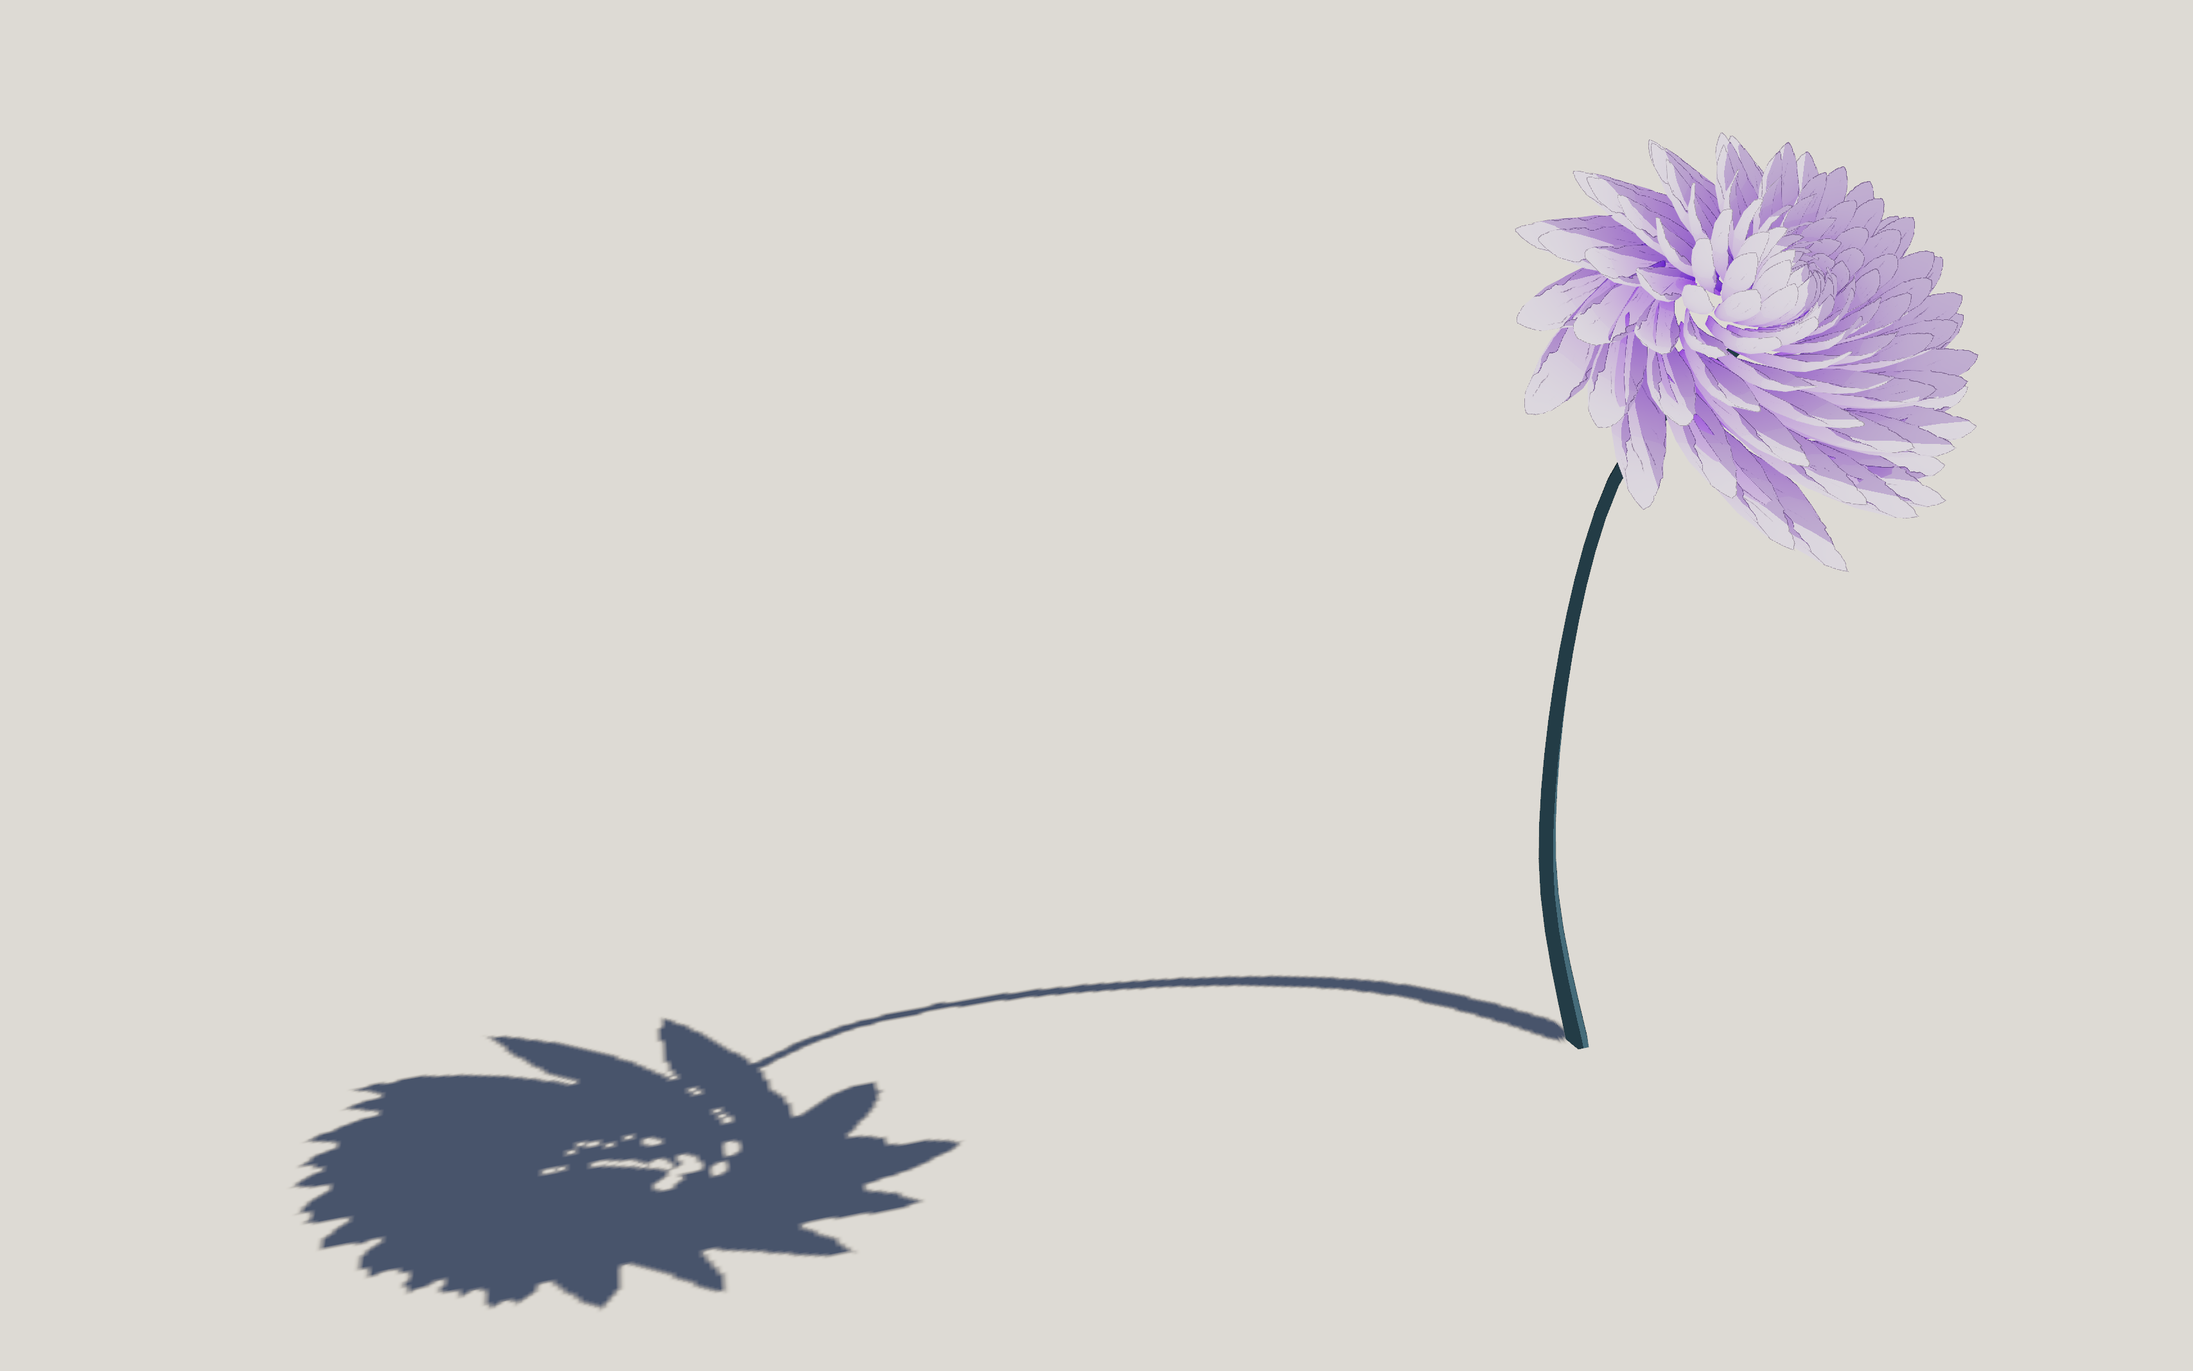
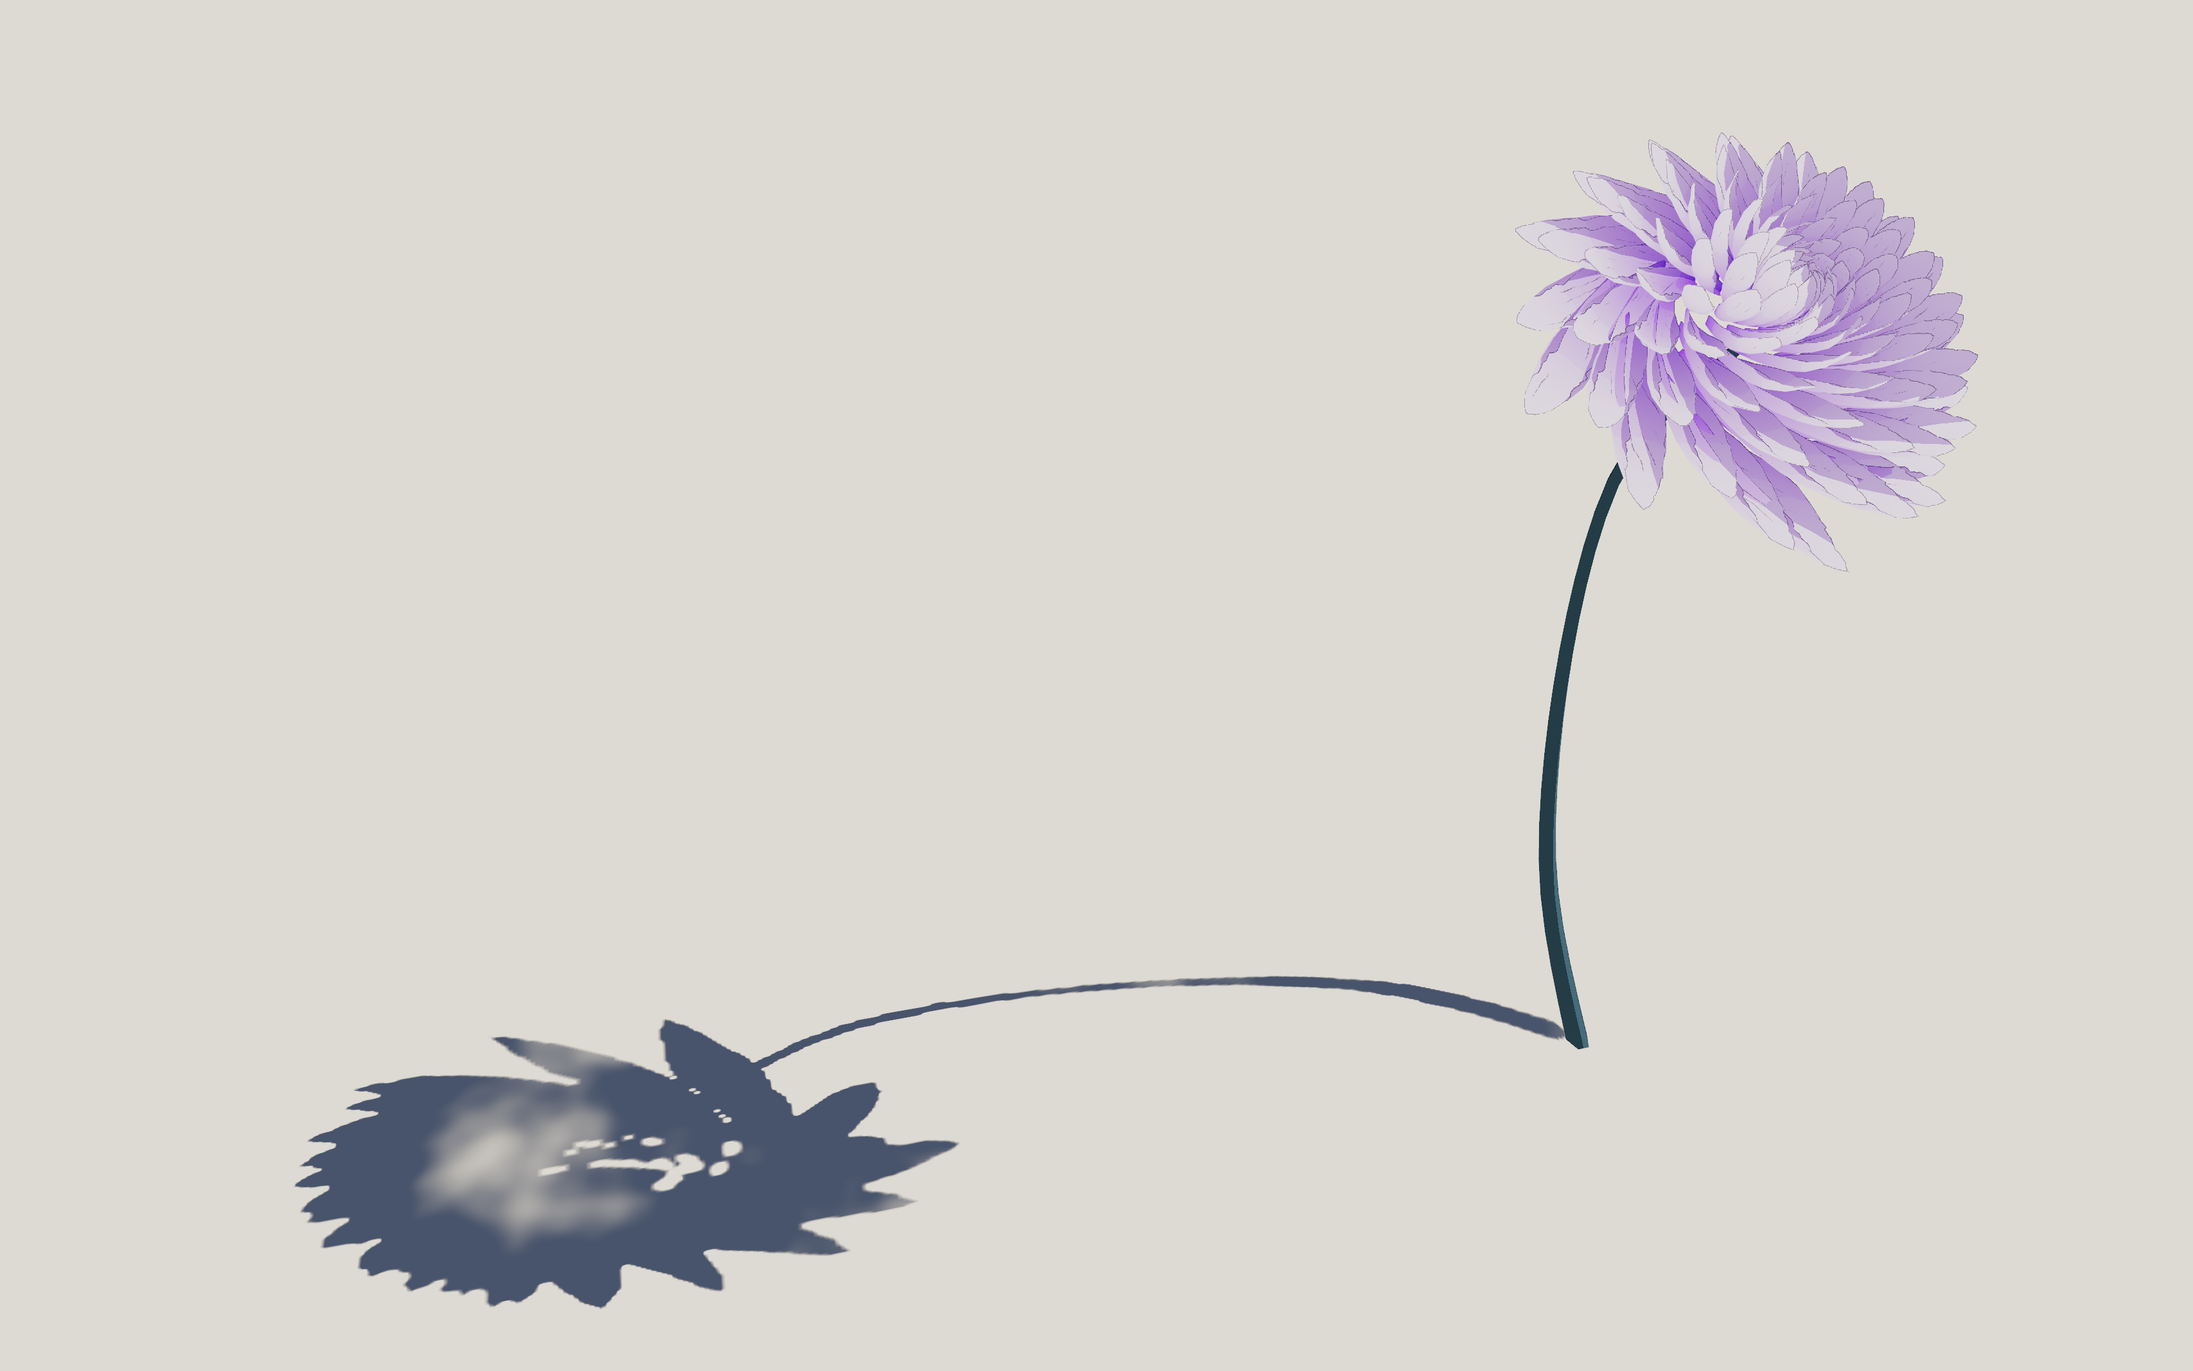
add videos

Changed region(s): [[0.1863, 0.7423, 0.3415, 0.9278], [0.4968, 0.7113, 0.5589, 0.7423], [0.3726, 0.866, 0.4347, 0.8969]]

diff --git a/still/article-preview/index.html b/still/article-preview/index.html
@@ -12,6 +12,10 @@
     />
     <link
       rel="stylesheet"
+      href="https://tympanus.net/codrops/wp-includes/css/dist/block-library/style.min.css"
+    />
+    <link
+      rel="stylesheet"
       href="https://codrops-1f606.kxcdn.com/codrops/wp-content/plugins/prismatic/lib/prism/css/theme-okaidia.css?x57826&ver=3.7.5"
     />
     <style>

diff --git a/still/article-preview/style.css b/still/article-preview/style.css
@@ -17,6 +17,14 @@
   display: none;
 }
 
+/* Match WordPress video blocks after the video's intrinsic size is known. */
+.ct-post-content .wp-block-video video {
+  display: block;
+  width: 100%;
+  max-width: 100%;
+  height: auto;
+}
+
 .media-slot {
   display: flex;
   flex-direction: column;

diff --git a/still/wordpress.md b/still/wordpress.md
@@ -86,9 +86,9 @@ const litColor = mix(
 <p>The ink edge is where the pipelines split. On the character, it comes from an inverted hull: a second mesh, back-face, pushed out along the normal. Petals skip that approach because every VAT head is instanced hundreds of times, and wrapping each in a second mesh would blow the budget while still tracing the wrong silhouette, since the deforming mesh is not the petal cutout. The shape already lives in a mask texture, so I discard outside it and draw the rim in the shader with <code>fwidth</code> on that same mask — one texture for both shape and edge. Stems get a view-facing rim in the shader as well, with no extra geometry.</p>
 <!-- /wp:paragraph -->
 
-<!-- wp:image -->
-<figure class="wp-block-image"><!-- [IMAGE: woodblock toon — character hull outline vs petal mask edge] --></figure>
-<!-- /wp:image -->
+<!-- wp:video {"id":120027} -->
+<figure class="wp-block-video"><video autoplay loop muted src="https://tympanus.net/codrops/wp-content/uploads/2026/08/demo-toon-1.mp4" playsinline></video></figure>
+<!-- /wp:video -->
 
 <!-- wp:heading {"level":4} -->
 <h4 class="wp-block-heading"><strong>Stylish Ground Shadow</strong></h4>
@@ -123,17 +123,17 @@ const shColor = mix(washColor, contourColor, line);
 return mix(bg, shColor, max(wash.mul(washStr), line.mul(contourStr)));</code></pre>
 <!-- /wp:code -->
 
-<!-- wp:image -->
-<figure class="wp-block-image"><!-- [IMAGE: stylish ground shadow — ink wash + contour, not a soft PCF blob] --></figure>
-<!-- /wp:image -->
+<!-- wp:video {"id":120062} -->
+<figure class="wp-block-video"><video autoplay loop muted src="https://tympanus.net/codrops/wp-content/uploads/2026/08/demo-shadow-1.mp4" playsinline></video></figure>
+<!-- /wp:video -->
 
 <!-- wp:paragraph -->
 <p>I want flower shadows on the character, but not on themselves. So I use two shadow maps: one has the character and the flowers, for the ground wash; the other contains only the flowers, sampled by the character. That map comes from a directional light at the same place with no intensity: it only writes depth, and its shadow camera sees the flowers and not the character, so the character can sample it without being in it.</p>
 <!-- /wp:paragraph -->
 
-<!-- wp:image -->
-<figure class="wp-block-image"><!-- [IMAGE: flowers casting on the character and backpack] --></figure>
-<!-- /wp:image -->
+<!-- wp:video {"id":120075} -->
+<figure class="wp-block-video"><video autoplay loop muted src="https://tympanus.net/codrops/wp-content/uploads/2026/08/demo-shadow-on-character.mp4" playsinline></video></figure>
+<!-- /wp:video -->
 
 <!-- wp:heading {"level":4} -->
 <h4 class="wp-block-heading"><strong>Silk Weave</strong></h4>
@@ -170,8 +170,8 @@ const blotch = float(1.0).sub(blotchStrength.mul(smoothstep(0.45, 0.95, stain)))
 const overlaid = sceneColor.mul(tint).mul(fabric).mul(blotch);</code></pre>
 <!-- /wp:code -->
 
-<!-- wp:video -->
-<figure class="wp-block-video"><!-- [VIDEO or IMAGE pair: silk weave off vs on] --></figure>
+<!-- wp:video {"id":120091} -->
+<figure class="wp-block-video"><video autoplay loop muted src="https://tympanus.net/codrops/wp-content/uploads/2026/08/demo-silk-2.mp4" playsinline></video></figure>
 <!-- /wp:video -->
 
 <!-- wp:heading -->
@@ -207,9 +207,9 @@ const ease = t * t * (3.0 - 2.0 * t);
 const shrunk = pivot.add(basePos.sub(pivot).mul(1.0 - ease));</code></pre>
 <!-- /wp:code -->
 
-<!-- wp:image -->
-<figure class="wp-block-image"><!-- [IMAGE or VIDEO: Blender Geo Nodes bloom vs the VAT flower head] --></figure>
-<!-- /wp:image -->
+<!-- wp:video {"id":120086} -->
+<figure class="wp-block-video"><video autoplay loop muted src="https://tympanus.net/codrops/wp-content/uploads/2026/08/demo-flower-2.mp4" playsinline></video></figure>
+<!-- /wp:video -->
 
 <!-- wp:heading {"level":4} -->
 <h4 class="wp-block-heading"><strong>Stem</strong></h4>
@@ -243,12 +243,13 @@ const scale = (1 - (1 - radiusAttenuation) * t) + baseFlare * (1 - t) ** 3;</cod
 <!-- wp:code -->
 <pre class="wp-block-code"><code>If(uv().x.greaterThan(growth), () =&gt; Discard());
 const rScale = startScale + growth * (1.0 - startScale);
-grown = center.add(positionLocal.sub(center).mul(rScale));</code></pre>
+grown = center.add(positionLocal.sub(center).mul(rScale));
+</code></pre>
 <!-- /wp:code -->
 
-<!-- wp:image -->
-<figure class="wp-block-image"><!-- [IMAGE: one stem, VAT head on the tip] --></figure>
-<!-- /wp:image -->
+<!-- wp:video {"id":120087} -->
+<figure class="wp-block-video"><video autoplay loop muted src="https://tympanus.net/codrops/wp-content/uploads/2026/08/demo-stem.mp4" playsinline></video></figure>
+<!-- /wp:video -->
 
 <!-- wp:heading {"level":4} -->
 <h4 class="wp-block-heading"><strong>Leaf</strong></h4>
@@ -269,9 +270,9 @@ const growFrac = smoothstep(attachT, attachT + GROW_WINDOW, stemGrow);
 placed = attach.add(leafPos.mul(growFrac));</code></pre>
 <!-- /wp:code -->
 
-<!-- wp:image -->
-<figure class="wp-block-image"><!-- [IMAGE: leaves instanced on the stem] --></figure>
-<!-- /wp:image -->
+<!-- wp:video {"id":120088} -->
+<figure class="wp-block-video"><video autoplay loop muted src="https://tympanus.net/codrops/wp-content/uploads/2026/08/demo-leaf.mp4" playsinline></video></figure>
+<!-- /wp:video -->
 
 <!-- wp:heading {"level":4} -->
 <h4 class="wp-block-heading"><strong>Lifecycle</strong></h4>
@@ -327,25 +328,21 @@ placed = attach.add(leafPos.mul(growFrac));</code></pre>
 <p>A flower <strong>hops</strong> by taking a short random step off a heart, then I keep that point only if the density field accepts it, the same check as the heart. When a plant dies the flower hops again the same way, so the clumps stay around the hearts as those hearts wander. Once a flower has a spot, head size and how far it can open follow local density. Rose is the quieter shape, so it is common and can fill the mass, while dahlia is brighter and busier, so I keep that one rare.</p>
 <!-- /wp:paragraph -->
 
-<!-- wp:image -->
-<figure class="wp-block-image"><!-- [IMAGE: wide — masses at hip / hand / boot / backpack, irregular rather than circular] --></figure>
-<!-- /wp:image -->
-
-<!-- wp:image -->
-<figure class="wp-block-image"><!-- [IMAGE optional: debug density field vs the same frame with flowers] --></figure>
-<!-- /wp:image -->
+<!-- wp:video {"id":120094} -->
+<figure class="wp-block-video"><video autoplay loop muted src="https://tympanus.net/codrops/wp-content/uploads/2026/08/demo-field-1.mp4" playsinline></video></figure>
+<!-- /wp:video -->
 
 <!-- wp:heading {"level":4} -->
 <h4 class="wp-block-heading"><strong>Packed Stems</strong></h4>
 <!-- /wp:heading -->
 
 <!-- wp:paragraph -->
-<p>Stems are packed into one draw, the same instinct as instancing the grass in <em>False Earth</em>. Each tube is built once. What still moves is written into a DataTexture for the GPU each frame: how far the stem has come, a little sway, and a world offset and yaw so a respawn can move without remeshing. What does not change is stored on the CPU, on each plant as a JavaScript object: seed, flower type, which anchor and heart it belongs to, and how far the flower can open, written once when the field is laid out from the density at that spot.</p>
+<p>Stems are packed into one draw, the same instinct as instancing the grass in <em>False Earth</em>. Each plant keeps its static metadata on the CPU as a JavaScript object: its seed, flower type, anchor, heart, and opening range, written once when the field is laid out from the density at that spot. Each tube is built once. Every frame, I pack only the changing values — how far the stem has come, a little sway, and a world offset and yaw — into a DataTexture for the GPU to read, so a respawn can move without remeshing.</p>
 <!-- /wp:paragraph -->
 
-<!-- wp:video -->
-<figure class="wp-block-video"><!-- [VIDEO: a clump heart wandering — bloom → hop elsewhere] --></figure>
-<!-- /wp:video -->
+<!-- wp:image {"id":120106,"width":"689px","height":"auto","aspectRatio":"2.259920968555574","sizeSlug":"full","linkDestination":"none","align":"center"} -->
+<figure class="wp-block-image aligncenter size-full is-resized"><img src="https://tympanus.net/codrops/wp-content/uploads/2026/08/Group-46-3.png" alt="" class="wp-image-120106" style="aspect-ratio:2.259920968555574;width:689px;height:auto"/></figure>
+<!-- /wp:image -->
 
 <!-- wp:heading -->
 <h2 class="wp-block-heading">Generative Tendrils</h2>
@@ -376,7 +373,9 @@ placed = attach.add(leafPos.mul(growFrac));</code></pre>
 <!-- /wp:paragraph -->
 
 <!-- wp:list {"ordered":true} -->
-<ol><li><strong>Prepare the hosts</strong><p>I bake the posed body and backpack into host-space geometries, build one BVH for each, and turn their meshes into surface graphs.</p></li></ol>
+<ol class="wp-block-list"><!-- wp:list-item -->
+<li><strong>Prepare the hosts</strong><p>I bake the posed body and backpack into host-space geometries, build one BVH for each, and turn their meshes into surface graphs.</p></li>
+<!-- /wp:list-item --></ol>
 <!-- /wp:list -->
 
 <!-- wp:heading {"level":5} -->
@@ -384,7 +383,17 @@ placed = attach.add(leafPos.mul(growFrac));</code></pre>
 <!-- /wp:heading -->
 
 <!-- wp:list {"ordered":true,"start":2} -->
-<ol start="2"><li><strong>Choose a wrap station</strong><p>I sample the posed surface, assign each accepted point to an eligible guide, and store its normalized position <code>u</code> along that guide. Together, these values determine where the wrap begins.</p></li><li><strong>Generate wrap candidates</strong><p>The guide turns that station into temporary candidate positions. These are the positions where the host surface will be tested.</p></li><li><strong>Project the candidates onto the host</strong><p>I project each candidate onto the host surface using the guide and host BVH. The accepted hits are ordered into the <strong>wrap curve</strong>, whose first point is the <strong>hitch</strong>.</p></li></ol>
+<ol start="2" class="wp-block-list"><!-- wp:list-item -->
+<li><strong>Choose a wrap station</strong><p>I sample the posed surface, assign each accepted point to an eligible guide, and store its normalized position <code>u</code> along that guide. Together, these values determine where the wrap begins.</p></li>
+<!-- /wp:list-item -->
+
+<!-- wp:list-item -->
+<li><strong>Generate wrap candidates</strong><p>The guide turns that station into temporary candidate positions. These are the positions where the host surface will be tested.</p></li>
+<!-- /wp:list-item -->
+
+<!-- wp:list-item -->
+<li><strong>Project the candidates onto the host</strong><p>I project each candidate onto the host surface using the guide and host BVH. The accepted hits are ordered into the <strong>wrap curve</strong>, whose first point is the <strong>hitch</strong>.</p></li>
+<!-- /wp:list-item --></ol>
 <!-- /wp:list -->
 
 <!-- wp:heading {"level":5} -->
@@ -392,17 +401,22 @@ placed = attach.add(leafPos.mul(growFrac));</code></pre>
 <!-- /wp:heading -->
 
 <!-- wp:list {"ordered":true,"start":5} -->
-<ol start="5"><li><strong>Choose the graph hitch</strong><p>The surface hitch may lie inside a triangle rather than on a graph vertex, so I select a nearby graph node as the <strong>graph hitch</strong>. This gives the ground route a discrete endpoint.</p></li><li><strong>Route from the ground</strong><p>I use ground-near vertices as Dijkstra sources and trace the shortest path to the graph hitch. That path becomes the <strong>ground route</strong>.</p></li></ol>
+<ol start="5" class="wp-block-list"><!-- wp:list-item -->
+<li><strong>Choose the graph hitch</strong><p>The surface hitch may lie inside a triangle rather than on a graph vertex, so I select a nearby graph node as the <strong>graph hitch</strong>. This gives the ground route a discrete endpoint.</p></li>
+<!-- /wp:list-item -->
+
+<!-- wp:list-item -->
+<li><strong>Route from the ground</strong><p>I use ground-near vertices as Dijkstra sources and trace the shortest path to the graph hitch. That path becomes the <strong>ground route</strong>.</p></li>
+<!-- /wp:list-item --></ol>
 <!-- /wp:list -->
 
 <!-- wp:paragraph -->
 <p>Finally, the wrap curve meets the ground route at the graph hitch. Both parts share one tendril tree and one growth distance, so a single growth front reveals the tendril from the ground, through the hitch, and around the wrap.</p>
 <!-- /wp:paragraph -->
 
-<!-- wp:image -->
-<figure class="wp-block-image"><!-- [IMAGE: debug — capsules + wrap paths (ground paths vs wraps) on the posed body] --></figure>
-<!-- /wp:image -->
-
+<!-- wp:video {"id":120095} -->
+<figure class="wp-block-video"><video autoplay loop muted src="https://tympanus.net/codrops/wp-content/uploads/2026/08/demo-tendril.mp4" playsinline></video></figure>
+<!-- /wp:video -->
 
 <!-- wp:heading {"level":4} -->
 <h4 class="wp-block-heading"><strong>Suit integration</strong></h4>
@@ -412,19 +426,17 @@ placed = attach.add(leafPos.mul(growFrac));</code></pre>
 <p>The body and backpack use the same host and routing pipeline. The backpack contributes a lighter contact layer, while the body carries most of the routes. Plumera heads bind to active wraps, giving the suit a different flower from the field.</p>
 <!-- /wp:paragraph -->
 
-
 <!-- wp:heading -->
-<h2 class="wp-block-heading">LOD on Mobile</h2>
+<h2 class="wp-block-heading">Flower LOD Across Backends</h2>
 <!-- /wp:heading -->
 
 <!-- wp:paragraph -->
-<p>Nearby heads use the high VAT. Far heads use a low-poly bake, split at about two metres. On desktop Blink a compute pass plus <strong>indirect draw</strong> picks the band, the same idea as the grass LOD in <em>False Earth</em>. On iPhone that path double-filled both meshes and the flowers flickered — WebKit still does not like that atomic compact. I compact the visible list on the CPU, clear <code>setIndirect</code>, and set <code>mesh.count</code>. It is not elegant. It is stable. Low-poly heads also feed the plant shadow map, so the stain on the suit does not need the full petal mesh.</p>
+<p>I reuse the culling and LOD pattern from <em>False Earth</em> for animated VAT flowers, with the high- and low-poly meshes sharing the same per-head state. The new problem appeared on iPhone: the indirect path submitted both LOD meshes. Apple touch devices and the WebGL2 fallback therefore select the visible band on the CPU, clear the indirect buffer, and set <code>Mesh.count</code>.</p>
 <!-- /wp:paragraph -->
 
-<!-- wp:code -->
-<pre class="wp-block-code"><code>slot.geometry.setIndirect(null);
-slot.mesh.count = compacted;</code></pre>
-<!-- /wp:code -->
+<!-- wp:paragraph -->
+<p>The low-poly VAT mesh also serves as a shadow-only proxy on a separate render layer, so the shadow passes do not need the full petal geometry.</p>
+<!-- /wp:paragraph -->
 
 <!-- wp:heading -->
 <h2 class="wp-block-heading">Conclusion</h2>
@@ -442,6 +454,6 @@ slot.mesh.count = compacted;</code></pre>
 <p>He is still. The plants are not.</p>
 <!-- /wp:paragraph -->
 
-<!-- wp:image -->
-<figure class="wp-block-image"><!-- [IMAGE: final wide still of the resting figure in the garden] --></figure>
-<!-- /wp:image -->
+<!-- wp:paragraph -->
+<p></p>
+<!-- /wp:paragraph -->
